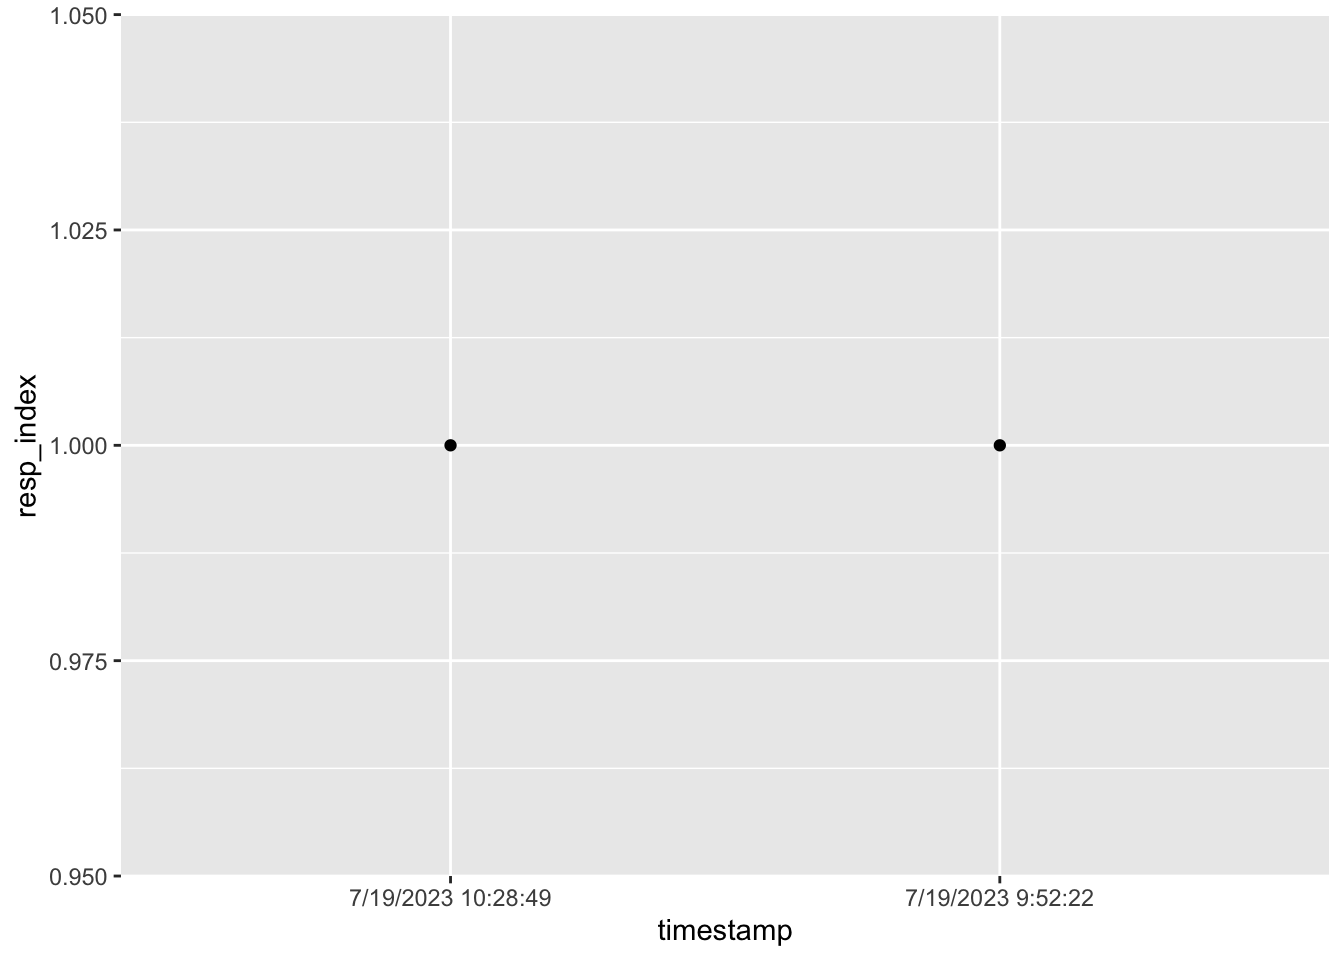
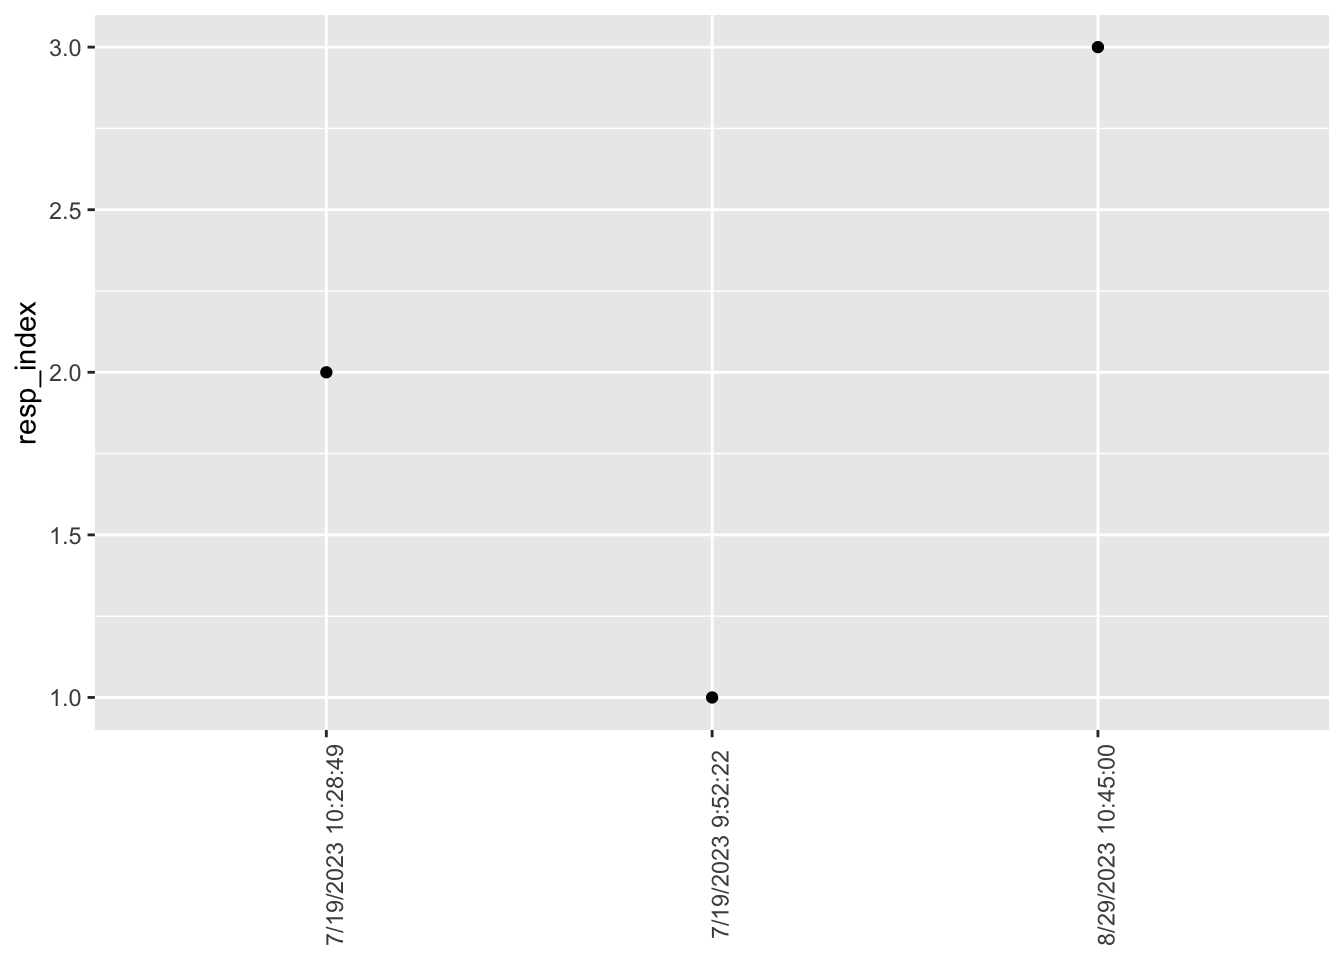
Add link and ref to FORRT.org to ex-06 and to schedule; modify survey-02 in prep for later visualizations.

diff --git a/docs/survey-02.html b/docs/survey-02.html
@@ -376,24 +376,24 @@ Note
 <span id="cb2-6"><a href="#cb2-6" aria-hidden="true" tabindex="-1"></a>survey_02_norms_qs <span class="ot">&lt;-</span> <span class="fu">names</span>(survey_02_norms)</span>
 <span id="cb2-7"><a href="#cb2-7" aria-hidden="true" tabindex="-1"></a>survey_02_norms_qs</span></code><button title="Copy to Clipboard" class="code-copy-button"><i class="bi"></i></button></pre></div>
 <div class="cell-output cell-output-stdout">
-<pre><code> [1] "Timestamp"                                                                                                                                                   
- [2] "Scientists are generally motivated by the desire for knowledge and discovery, and not by the possibility of personal gain....2"                              
- [3] "Scientists make an attempt to consider all new evidence, hypotheses, theories, and innovations, even those that challenge or contradict their own work....3" 
- [4] "Scientists generally assess new knowledge and its applications based on the reputation and past productivity of the individual or research group....4"       
- [5] "Scientists openly share new findings with all colleagues....5"                                                                                               
- [6] "Scientists generally invest their careers in promoting their own most important findings, theories, or innovations....6"                                     
- [7] "Scientists compete with others in the same field for funding and recognition of their achievements....7"                                                     
- [8] "Scientists generally evaluate research only on its merit (i.e., according to accepted standards of the field)....8"                                          
- [9] "Scientists emphasize the protection of their newest findings to ensure priority in publishing, patenting, or applications....9"                              
-[10] "Scientists are generally motivated by the desire for knowledge and discovery, and not by the possibility of personal gain....10"                             
-[11] "Scientists make an attempt to consider all new evidence, hypotheses, theories, and innovations, even those that challenge or contradict their own work....11"
-[12] "Scientists generally assess new knowledge and its applications based on the reputation and past productivity of the individual or research group....12"      
-[13] "Scientists openly share new findings with all colleagues....13"                                                                                              
-[14] "Scientists generally invest their careers in promoting their own most important findings, theories, or innovations....14"                                    
-[15] "Scientists compete with others in the same field for funding and recognition of their achievements....15"                                                    
-[16] "Scientists generally evaluate research only on its merit (i.e., according to accepted standards of the field)....16"                                         
-[17] "Scientists emphasize the protection of their newest findings to ensure priority in publishing, patenting, or applications....17"                             
-[18] "If you wish to comment about the questions in this survey, you may do so here. You are not required to comment."                                             </code></pre>
+<pre><code> [1] "Timestamp"                                                                                                                                                                                                                             
+ [2] "Scientists are generally motivated by the desire for knowledge and discovery, and not by the possibility of personal gain....2"                                                                                                        
+ [3] "Scientists make an attempt to consider all new evidence, hypotheses, theories, and innovations, even those that challenge or contradict their own work....3"                                                                           
+ [4] "Scientists generally assess new knowledge and its applications based on the reputation and past productivity of the individual or research group....4"                                                                                 
+ [5] "Scientists openly share new findings with all colleagues....5"                                                                                                                                                                         
+ [6] "Scientists generally invest their careers in promoting their own most important findings, theories, or innovations....6"                                                                                                               
+ [7] "Scientists compete with others in the same field for funding and recognition of their achievements....7"                                                                                                                               
+ [8] "Scientists generally evaluate research only on its merit (i.e., according to accepted standards of the field)....8"                                                                                                                    
+ [9] "Scientists emphasize the protection of their newest findings to ensure priority in publishing, patenting, or applications....9"                                                                                                        
+[10] "Scientists are generally motivated by the desire for knowledge and discovery, and not by the possibility of personal gain....10"                                                                                                       
+[11] "Scientists make an attempt to consider all new evidence, hypotheses, theories, and innovations, even those that challenge or contradict their own work....11"                                                                          
+[12] "Scientists generally assess new knowledge and its applications based on the reputation and past productivity of the individual or research group....12"                                                                                
+[13] "Scientists openly share new findings with all colleagues....13"                                                                                                                                                                        
+[14] "Scientists generally invest their careers in promoting their own most important findings, theories, or innovations....14"                                                                                                              
+[15] "Scientists compete with others in the same field for funding and recognition of their achievements....15"                                                                                                                              
+[16] "Scientists generally evaluate research only on its merit (i.e., according to accepted standards of the field)....16"                                                                                                                   
+[17] "Scientists emphasize the protection of their newest findings to ensure priority in publishing, patenting, or applications....17"                                                                                                       
+[18] "If you wish to comment about the questions in this survey, you may do so here. You are not required to comment. However, if you want extra credit points for completing the survey, put a code phrase here and tell the TA what it is."</code></pre>
 </div>
 </div>
 <section id="filtering-out-irrelevant-responses" class="level3 unnumbered">
@@ -401,7 +401,7 @@ Note
 <p>We should omit the first two response in the dataset. These were used by Dr.&nbsp;Gilmore used to generate a Google Sheet, and aren’t real data.</p>
 <div class="cell">
 <div class="sourceCode cell-code" id="cb4"><pre class="sourceCode r code-with-copy"><code class="sourceCode r"><span id="cb4-1"><a href="#cb4-1" aria-hidden="true" tabindex="-1"></a>survey_02_norms <span class="ot">&lt;-</span> survey_02_norms <span class="sc">|&gt;</span></span>
-<span id="cb4-2"><a href="#cb4-2" aria-hidden="true" tabindex="-1"></a>  dplyr<span class="sc">::</span><span class="fu">filter</span>(comments <span class="sc">!=</span> <span class="st">"test"</span>)</span></code><button title="Copy to Clipboard" class="code-copy-button"><i class="bi"></i></button></pre></div>
+<span id="cb4-2"><a href="#cb4-2" aria-hidden="true" tabindex="-1"></a>  dplyr<span class="sc">::</span><span class="fu">filter</span>(survey_02_norms[,<span class="dv">18</span>] <span class="sc">!=</span> <span class="st">"test"</span>)</span></code><button title="Copy to Clipboard" class="code-copy-button"><i class="bi"></i></button></pre></div>
 </div>
 </section>
 <section id="cleanshorten-names" class="level3">
@@ -505,11 +505,17 @@ Note
 <h2 class="unnumbered anchored" data-anchor-id="visualizations">Visualizations</h2>
 <div class="cell">
 <div class="sourceCode cell-code" id="cb9"><pre class="sourceCode r code-with-copy"><code class="sourceCode r"><span id="cb9-1"><a href="#cb9-1" aria-hidden="true" tabindex="-1"></a>n_responses <span class="ot">&lt;-</span> <span class="fu">dim</span>(survey_02_norms)[<span class="dv">1</span>] <span class="co"># number of rows in original</span></span>
-<span id="cb9-2"><a href="#cb9-2" aria-hidden="true" tabindex="-1"></a>survey_02_norms <span class="sc">|&gt;</span></span>
-<span id="cb9-3"><a href="#cb9-3" aria-hidden="true" tabindex="-1"></a>  dplyr<span class="sc">::</span><span class="fu">mutate</span>(<span class="at">resp_index =</span> <span class="dv">1</span><span class="sc">:</span>(n_responses<span class="dv">-1</span>)) <span class="sc">|&gt;</span></span>
-<span id="cb9-4"><a href="#cb9-4" aria-hidden="true" tabindex="-1"></a>  <span class="fu">ggplot</span>() <span class="sc">+</span></span>
-<span id="cb9-5"><a href="#cb9-5" aria-hidden="true" tabindex="-1"></a>  <span class="fu">aes</span>(<span class="at">x =</span> timestamp, resp_index) <span class="sc">+</span></span>
-<span id="cb9-6"><a href="#cb9-6" aria-hidden="true" tabindex="-1"></a>  <span class="fu">geom_point</span>()</span></code><button title="Copy to Clipboard" class="code-copy-button"><i class="bi"></i></button></pre></div>
+<span id="cb9-2"><a href="#cb9-2" aria-hidden="true" tabindex="-1"></a></span>
+<span id="cb9-3"><a href="#cb9-3" aria-hidden="true" tabindex="-1"></a><span class="cf">if</span> (n_responses <span class="sc">&lt;</span> <span class="dv">1</span>) {</span>
+<span id="cb9-4"><a href="#cb9-4" aria-hidden="true" tabindex="-1"></a>  <span class="fu">message</span>(<span class="st">"Insufficient responses to plot."</span>)</span>
+<span id="cb9-5"><a href="#cb9-5" aria-hidden="true" tabindex="-1"></a>} <span class="cf">else</span> {</span>
+<span id="cb9-6"><a href="#cb9-6" aria-hidden="true" tabindex="-1"></a>  survey_02_norms <span class="sc">|&gt;</span></span>
+<span id="cb9-7"><a href="#cb9-7" aria-hidden="true" tabindex="-1"></a>    dplyr<span class="sc">::</span><span class="fu">mutate</span>(<span class="at">resp_index =</span> <span class="dv">1</span><span class="sc">:</span>n_responses) <span class="sc">|&gt;</span></span>
+<span id="cb9-8"><a href="#cb9-8" aria-hidden="true" tabindex="-1"></a>    <span class="fu">ggplot</span>() <span class="sc">+</span></span>
+<span id="cb9-9"><a href="#cb9-9" aria-hidden="true" tabindex="-1"></a>    <span class="fu">aes</span>(<span class="at">x =</span> timestamp, resp_index) <span class="sc">+</span></span>
+<span id="cb9-10"><a href="#cb9-10" aria-hidden="true" tabindex="-1"></a>    <span class="fu">geom_point</span>() <span class="sc">+</span></span>
+<span id="cb9-11"><a href="#cb9-11" aria-hidden="true" tabindex="-1"></a>    <span class="fu">theme</span>(<span class="at">axis.text.x =</span> <span class="fu">element_text</span>(<span class="at">angle=</span><span class="dv">90</span>), <span class="at">axis.title.x =</span> <span class="fu">element_blank</span>())</span>
+<span id="cb9-12"><a href="#cb9-12" aria-hidden="true" tabindex="-1"></a>}</span></code><button title="Copy to Clipboard" class="code-copy-button"><i class="bi"></i></button></pre></div>
 <div class="cell-output-display">
 <div id="fig-survey-02-timeseries" class="quarto-figure quarto-figure-center anchored">
 <figure class="figure">

diff --git a/docs/schedule.html b/docs/schedule.html
@@ -741,7 +741,7 @@ div.csl-indent {
 </ul></li>
 <li><span class="green_assigned">Assignment</span>
 <ul>
-<li><a href="">Exercise 06: Replication</a></li>
+<li><a href="./ex06-replication.html">Exercise 06: Replication</a></li>
 </ul></li>
 </ul>
 <hr>
@@ -780,7 +780,7 @@ div.csl-indent {
 <ul>
 <li><span class="orange_due">Due</span>
 <ul>
-<li><a href="">Exercise 06: Replication</a></li>
+<li><a href="./ex06-replication.html">Exercise 06: Replication</a></li>
 </ul></li>
 <li><span class="green_assigned">Optional Extra Credit Assignment</span> - For 5 extra credit points, write a paragraph that summarizes the main findings of <span class="citation" data-cites="Camerer2018-tr">(<a href="#ref-Camerer2018-tr" role="doc-biblioref">Camerer et al., 2018</a>)</span>. <span class="due_orange">Due Friday, November 3</span>.</li>
 </ul>
@@ -901,6 +901,10 @@ div.csl-indent {
 <ul>
 <li><span class="citation" data-cites="Kathawalla2021-tk">(<a href="#ref-Kathawalla2021-tk" role="doc-biblioref">Kathawalla, Silverstein, &amp; Syed, 2021</a>)</span></li>
 <li><span class="citation" data-cites="Cruwell2019-nz">(<a href="#ref-Cruwell2019-nz" role="doc-biblioref">Crüwell et al., 2019</a>)</span></li>
+</ul></li>
+<li>Explore
+<ul>
+<li><span class="citation" data-cites="FORRT_undated-pl">(<a href="#ref-FORRT_undated-pl" role="doc-biblioref"><span>“<span>FORRT</span> - framework for open and reproducible research training,”</span> n.d.</a>)</span></li>
 </ul></li>
 <li><a href="">Class notes</a></li>
 </ul>
@@ -1037,6 +1041,9 @@ Feynman, R. P. (1974). Cargo cult science. <a href="https://calteches.library.ca
 </div>
 <div id="ref-Fidler2021-xn" class="csl-entry" role="listitem">
 Fidler, F., &amp; Wilcox, J. (2021). Reproducibility of scientific results. In E. N. Zalta (Ed.), <em>The stanford encyclopedia of philosophy</em> (Summer 2021). Metaphysics Research Lab, Stanford University. Retrieved from <a href="https://plato.stanford.edu/archives/sum2021/entries/scientific-reproducibility/">https://plato.stanford.edu/archives/sum2021/entries/scientific-reproducibility/</a>
+</div>
+<div id="ref-FORRT_undated-pl" class="csl-entry" role="listitem">
+<span>FORRT</span> - framework for open and reproducible research training. (n.d.). <a href="https://forrt.org/" class="uri">https://forrt.org/</a>. Retrieved from <a href="https://forrt.org/">https://forrt.org/</a>
 </div>
 <div id="ref-Franco2014-yu" class="csl-entry" role="listitem">
 Franco, A., Malhotra, N., &amp; Simonovits, G. (2014). Social science. Publication bias in the social sciences: Unlocking the file drawer. <em>Science</em>, <em>345</em>(6203), 1502–1505. <a href="https://doi.org/10.1126/science.1255484">https://doi.org/10.1126/science.1255484</a>

diff --git a/docs/ex06-replication.html b/docs/ex06-replication.html
@@ -289,6 +289,7 @@ div.csl-indent {
 <section id="assignment" class="level2 unnumbered">
 <h2 class="unnumbered anchored" data-anchor-id="assignment">Assignment</h2>
 <p>Choose a published scientific paper on a topic you find interesting and important.</p>
+<p>You might find some of the topics suggested here <span class="citation" data-cites="FORRT_undated-pl">(<a href="#ref-FORRT_undated-pl" role="doc-biblioref"><span>“<span>FORRT</span> - framework for open and reproducible research training,”</span> n.d.</a>)</span> a good place to start: <a href="https://forrt.org/reversals/" class="uri">https://forrt.org/reversals/</a>.</p>
 <p>Does the paper:</p>
 <ul>
 <li>Report on whether data reported replicate a prior finding?</li>
@@ -314,6 +315,9 @@ div.csl-indent {
 <div id="quarto-appendix" class="default"><section class="quarto-appendix-contents" role="doc-bibliography"><h2 class="anchored quarto-appendix-heading">References</h2><div id="refs" class="references csl-bib-body hanging-indent" data-line-spacing="2" role="list">
 <div id="ref-Begley2013-vm" class="csl-entry" role="listitem">
 Begley, C. G. (2013). Six red flags for suspect work. <em>Nature</em>, <em>497</em>(7450), 433–434. <a href="https://doi.org/10.1038/497433a">https://doi.org/10.1038/497433a</a>
+</div>
+<div id="ref-FORRT_undated-pl" class="csl-entry" role="listitem">
+<span>FORRT</span> - framework for open and reproducible research training. (n.d.). <a href="https://forrt.org/" class="uri">https://forrt.org/</a>. Retrieved from <a href="https://forrt.org/">https://forrt.org/</a>
 </div>
 <div id="ref-munafo_manifesto_2017" class="csl-entry" role="listitem">
 Munafò, M. R., Nosek, B. A., Bishop, D. V. M., Button, K. S., Chambers, C. D., Sert, N. P. du, … Ioannidis, J. P. A. (2017). A manifesto for reproducible science. <em>Nature Human Behaviour</em>, <em>1</em>, 0021. <a href="https://doi.org/10.1038/s41562-016-0021">https://doi.org/10.1038/s41562-016-0021</a>
